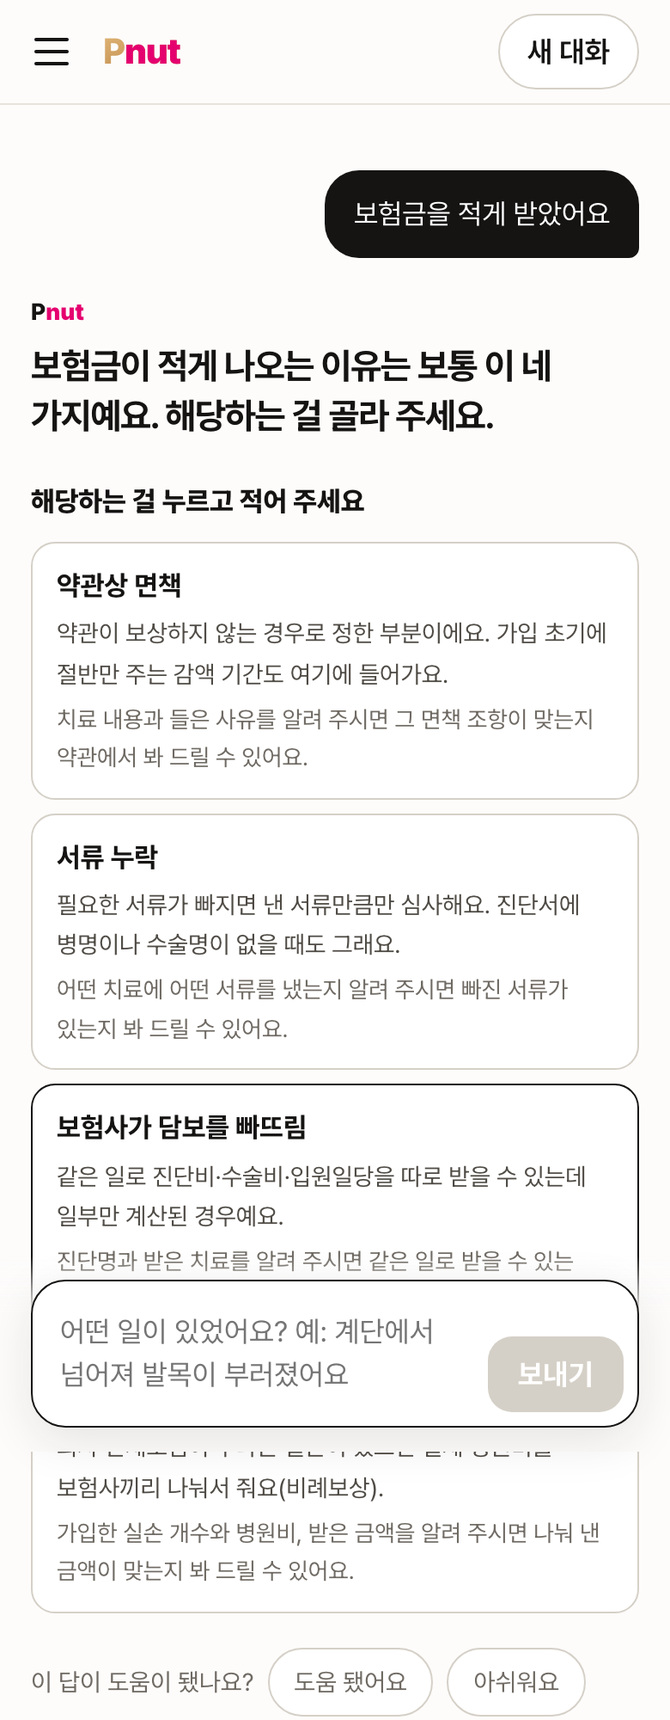
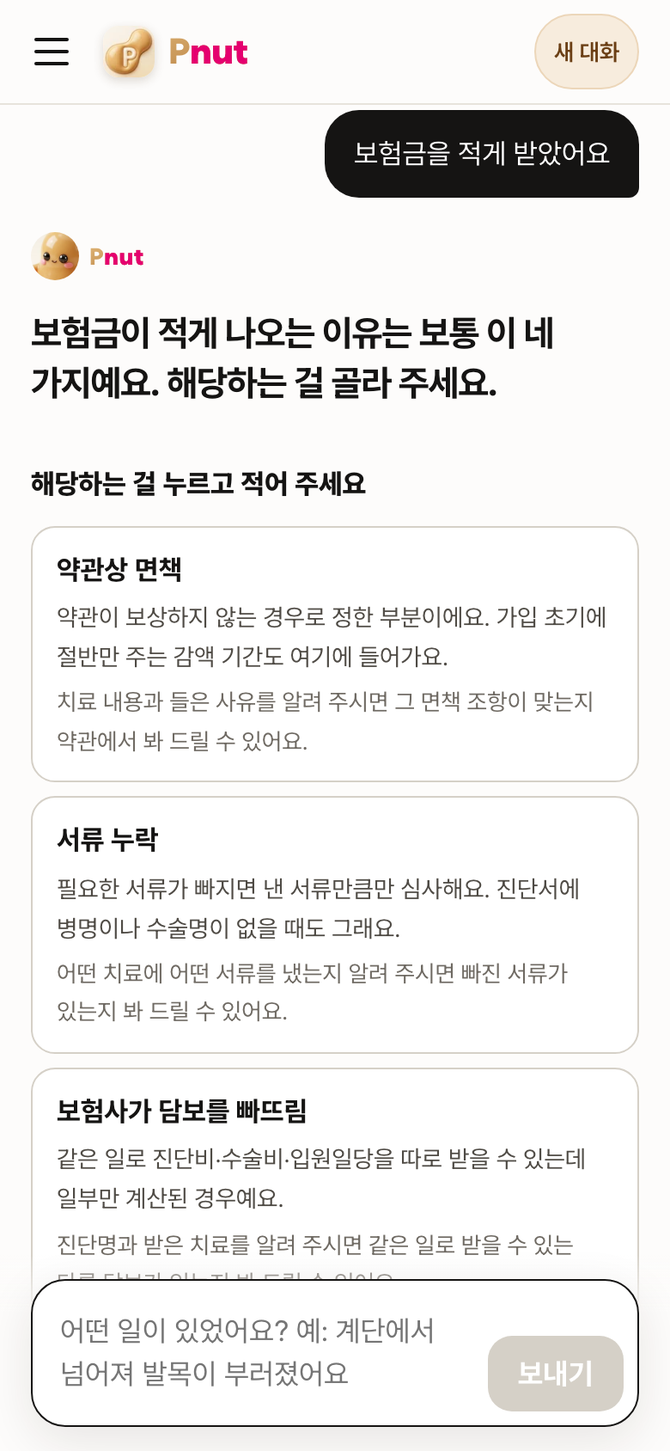
docs: 처음 보는 사람이 읽기 쉽게 README를 다시 쓰고, 모델 수립 계획과 현재 화면(foundshu-00119) 반영
- README: 맨 위 '한눈에' 표(문제·만든 것·핵심 판단·확인한 결과·역할), 동작 순서, 설계 판단, 조건이 붙은 결과, 역할.
- docs/model-plan.md: 질문 이해·재정렬 모델 수립 계획(사람 정답 → 기준선 → 재정렬·질문 읽기 → 서빙 결정)과 통과 기준.
- 화면 5장을 공개 시연판 foundshu-00119에서 다시 찍음(골절 답·떼 올 서류·크라운 답·되묻기·소개), 해시 기록 갱신.

diff --git a/README.md b/README.md
@@ -2,143 +2,121 @@
 
 [![검증](https://github.com/wpalswpa/foundshu-rag-evidence/actions/workflows/verify.yml/badge.svg)](https://github.com/wpalswpa/foundshu-rag-evidence/actions/workflows/verify.yml)
 
-다친 일이나 아팠던 일을 평소 말로 적으면, 먼저 "이 일이면 진단비·실손의료비를 확인해 보세요"처럼 확인할 보험금의 큰 분류를 알려 준다. 분류마다 보험사가 공시한 약관 원문에서 찾은 담보를 진단비, 수술비, 입원일당, 실손 순으로 보이고, 약관의 기준 문장, 빠지는 경우, 준비할 서류를 함께 붙인다. 보험금이 나오는지 정하지는 않는다. 약관을 펴기 전에 "어느 담보의 어느 조항을 읽어야 하는가"까지 좁혀 주는 것이 목적이다. 2026-11-12에 이름을 찾았슈에서 피넛(로고 Pnut)으로 바꿨다.
+다쳤거나 아팠던 일을 평소 말로 적으면 세 가지를 알려 준다.
+- 확인해 볼 보험금 종류(진단비·수술비·입원일당·실손)
+- 약관에서 찾은 담보 이름과 기준 문장
+- 담보마다 떼 올 서류
 
-현재 상태는 다음과 같다.
+보험금이 나오는지는 판정하지 않는다. 약관을 펴기 전에 "어느 담보의 어느 조항을 읽어야 하는가"까지 좁혀 주는 것이 목적이다. 공개 시연판은 접근 코드로 제한해 Google Cloud Run에서 돌고, 질문 하나에 언어 모델을 한 번도 부르지 않는다.
 
-- 된 것: 접근 코드로 제한한 공개 시연판이 클라우드에서 돈다. 공개판은 약관 색인 검색만 쓰고, 질문마다 언어 모델을 부르지 않는다. 질문은 사용자가 동의한 경우에만 주민등록번호와 휴대폰 번호를 가린 뒤 1년 동안 보관해 검색 개선과 학습에 쓴다.
-- 안 된 것: 외부 AI가 원문을 읽고 답하는 읽기 방식은 구현했지만, 서비스 경로에서는 외부 AI에 기대지 않기로 해 공개판에서 껐다. 로컬 모델이나 직접 띄운 모델 서빙으로 옮기는 것이 다음 단계이고, 읽기 방식의 정확도는 아직 재지 않았다. 색인된 약관은 71개(보험사 7곳)로, 판매 중인 전체 약관에는 아직 멀다. 실제 사용자 검증과 보험사 연동은 없다.
-- 이 저장소: 서비스 코드는 비공개다. 여기에는 작동 원리, 현재 화면, 측정 기록, 이전 실험(계약 범위 검색)의 공개 재현 코드를 둔다.
+## 한눈에
+
+| | |
+|---|---|
+| 문제 | 보험금을 청구하려면 가입한 담보, 그 담보의 약관 조항, 필요한 서류를 알아야 한다. 약관은 상품마다 수백 쪽이고 같은 보장도 회사마다 이름이 다르다 |
+| 만든 것 | 보험사가 공시한 약관 71개를 특약 단위로 색인했다. 질문을 '질병·상해 → 보험금 종류 → 담보 → 원문 문장·서류' 순서로 답하는 웹 서비스다 |
+| 핵심 판단 | 지급 여부는 단정하지 않는다. 사례를 외우지 않고, 약관에서 담보와 문장을 뽑는 일반 규칙을 데이터 표로 둔다. 모델은 사람이 정한 정답에서 이길 때만 들인다 |
+| 확인한 결과 | 약관 원문으로 만든 지급 질문 32개 중 30개에서 해당 담보를 찾았고, '안 나와요'로 잘못 답한 것은 0개다. 평가에 쓰지 않은 일상 질문 80개에서 답의 담보 줄이 틀린 문항을 32개에서 1개로 줄였다(정답은 AI 판정이며 실무자 확인 전) |
+| 역할 | 개인 프로젝트다. 문제 범위, 답의 형식, 평가 기준과 채택을 정했고, 코드는 AI 코딩 도구로 작성·검토했다([아래](#역할)) |
 
 ## 화면
 
-![소개 화면. 큰 제목 '이것도 보험금 나와요?', 책 읽는 땅콩과 말풍선, 흐르는 예시 단추, 휴대폰 틀 안에 실제 답이 쌓이는 화면](docs/images/intro.png)
+![소개 화면. 큰 제목, 책 읽는 땅콩 캐릭터, 흐르는 예시 질문 단추, 휴대폰 틀 안의 실제 답 화면](docs/images/intro.png)
 
 <p>
-  <img src="docs/images/answer-burn.png" width="250" alt="화상 질문의 답. 진단비 묶음의 대표 화상진단비와 심재성 2도 이상이라는 약관 기준 줄, 같은 종류 담보 목록">
-  <img src="docs/images/answer-exclusion.png" width="250" alt="백내장 수술 질문의 답. 진단비·수술비·종별 수술비·실손 네 묶음과 백내장 제외 담보를 뺐다는 안내">
-  <img src="docs/images/clarify.png" width="250" alt="보험금을 적게 받았다는 질문의 답. 대표 사유 네 가지 선택지">
+  <img src="docs/images/answer-fracture.png" width="200" alt="다리 골절 질문의 답. 결론 한 줄과 확인해 볼 담보(골절진단비·실손의료비)가 체크된 채 나온 화면">
+  <img src="docs/images/answer-docs.png" width="200" alt="결과 보기를 누른 뒤 떼 올 서류 네 가지와 각 서류를 쓰는 담보, 교통사고면 지급결의서 안내">
+  <img src="docs/images/answer-crown.png" width="200" alt="크라운 질문의 답. 치과크라운치료 담보와 실손이 보통 안 나오는 이유, 1세대 실손이라면 다쳐서 받은 치과 치료는 나올 수 있다는 줄">
+  <img src="docs/images/clarify.png" width="200" alt="보험금을 적게 받았다는 질문의 답. 무슨 일인지 없어 대표 사유를 선택지로 묻는 화면">
 </p>
 
-| 질문 | 화면이 보여 주는 것 |
+| 질문 | 답이 보여 주는 것 |
 |---|---|
-| 뜨거운 물에 데여서 화상을 입었어요 | 첫 줄은 "이 일이면 진단비·실손의료비를 확인해 보세요"다. 진단비 칸의 대표가 화상진단비이고, '기준' 줄에 약관 정의(심재성 2도 이상의 화상)를 옮긴다. 다른 회사·다른 이름의 같은 종류 담보는 아래 목록으로 접어 두고, 수술비·입원일당은 '수술했다면', '입원했다면' 줄로 따로 둔다 |
-| 백내장 수술했어요 | 첫 줄은 "이 일이면 질병 수술비·실손의료비를 확인해 보세요"다. 질병 수술비 칸에 증권에서 찾아볼 담보 이름 예시와 수술비·종별 수술비(1~5종) 묶음을 넣고, 실손 칸 아래에서 실손 보험금 계산을 열 수 있다. 이름에 '백내장 제외'가 붙은 담보는 빼고, 왜 뺐는지 안내에 남긴다 |
-| 보험금을 적게 받았어요 | 경위가 없어 담보를 늘어놓지 않고, 대표 사유 네 가지를 고르게 한다 |
+| 다리 부러졌어요 | 첫 줄 "이 일이면 진단비·실손의료비를 확인해 보세요"와 함께 골절진단비·실손이 체크된 채 나온다. 깁스·부목·골절수술·철심 제거는 아래 '이런 경우라면'에 둔다. 청구할 담보를 고르고 결과 보기를 누르면 그 담보들의 서류를 겹치지 않게 모아 보인다 |
+| 크라운 | 치과크라운치료 담보와, 실손이 보통 보상하지 않는 이유(건강보험이 적용되지 않는 치과 보철)를 표준약관 쪽수와 함께 보인다. 표준화 전에 가입한 1세대 실손은 다쳐서 받은 치과 치료를 보상할 수 있다는 줄을 출처와 함께 붙인다 |
+| 보험금을 적게 받았어요 | 무슨 일인지 없어서 담보를 늘어놓지 않고 대표 사유를 선택지로 묻는다 |
 
-## 작동 원리
+화면을 찍은 조건과 판은 [화면 기록](docs/screenshots.md)에 있다.
 
-공개판이 쓰는 검색 방식이다. 질문 하나에 모델 호출은 0회다.
+## 어떻게 동작하나
 
 ```mermaid
 flowchart TD
-  Q["질문: 겪은 일을 평소 말로"] --> C{"경위 낱말이 있나"}
-  C -->|"없음"| K["대표 사유를 선택지로 되묻기<br>한 번만, 모델 호출 없음"]
-  C -->|"있음"| P["검색 계획<br>질환 사전(치질 → 치핵), 행위 낱말 넓히기"]
-  P --> S["약관 색인 검색<br>SQLite FTS5 3글자 색인, 특약 단위"]
-  S --> N["이름이 맞는 특약 보충<br>화상 → 화상진단비"]
-  N --> X["제외 대조<br>이름에서 뺀 병 → 자리를 주지 않고 안내<br>면책 문장에 걸림 → 같은 분류 뒤로"]
-  X --> K["큰 분류<br>질병·상해 → 진단비 · 수술비 · 입원일당 · 실손 등<br>해당 / 그랬다면 / 해당 안 됨"]
-  K --> G["분류 칸 안의 담보 묶음<br>묶음마다 대표 1장 + 같은 종류 목록"]
+  Q["질문: 겪은 일을 평소 말로"] --> C{"무슨 일인지 있나"}
+  C -->|"없음"| A["대표 사유를 선택지로 되묻기"]
+  C -->|"있음"| P["질문 읽기<br>질환 사전(치질 → 치핵), 질병·상해 판정"]
+  P --> S["약관 색인 검색<br>SQLite FTS5, 특약 단위 조각"]
+  S --> K["보험금 종류 정하기<br>진단비·수술비·입원일당·실손<br>해당 / 그랬다면 / 보통 안 나와요"]
+  K --> G["담보 줄 뽑기<br>사건 낱말로 지급사유·정의 조각을 넓혀 찾음"]
+  G --> D["원문 붙이기<br>정의·한도·면책 문장, 담보별 서류, 실손 가입 세대"]
 ```
 
-1. **경위 확인**: 질문에서 일반어(보험금, 청구, 입원, 수술 등)와 처리 문제 낱말(적게, 거절 등)을 빼고 남는 낱말이 없으면 검색하지 않는다. 대신 사유를 선택지로 묻는다. 바로 앞 답이 되묻기였으면 다시 묻지 않는다.
-2. **검색 계획**: 질환 사전으로 고객 말을 약관 말로 넓힌다(치질 → 치핵, 부러졌어요 → 골절, 교통사고 → 자동차사고). 부위와 암이 따로 나오면 부위별 암으로 읽고(갑상선… 암 → 갑상선암), 약관이 여러 질환을 묶어 부르는 이름(유사암)도 붙인다.
-3. **색인 검색**: 약관 PDF를 특약별 조각(지급, 면책, 한도, 정의 등 역할 표시)으로 나눠 SQLite FTS5 3글자 색인에 넣었다. 낱말 점수가 높은 특약을 찾되, 같은 회사의 같은 이름 담보(여러 상품에 같은 담보가 든 경우)는 한 자리만 쓴다.
-4. **이름 보충**: 질문 낱말이 특약 이름에 들어 있으면(화상 → 화상진단비) 점수와 관계없이 후보에 넣는다.
-5. **제외 대조**: 약관은 보장하는 병을 일일이 적지 않고 빼는 병만 이름에 적는다. 그래서 병 이름으로 검색하면 그 병을 뺀 특약이 먼저 걸린다. 이름의 '(…제외)' 괄호에 질문의 병이 있으면 순위를 매길 때부터 자리를 주지 않고 안내에 남긴다. 면책 문장에 질문의 병이 걸린 담보는 같은 분류의 다른 담보 뒤로 보낸다.
-6. **큰 분류**: 질문한 사람의 가입 상황을 모르므로 담보 이름을 맞히는 대신 확인할 보험금의 종류를 먼저 정한다. 사건을 질병과 상해로 나누고(온톨로지의 질환 구분, 없으면 원인 낱말), 진단비·수술비·입원일당·간병·그 밖의 치료비·실손마다 상태를 셋 중 하나로 정한다. '해당'은 질문에 근거가 있을 때, '그랬다면'은 질문에 없지만 그 병에서 흔할 때(수술했다면 → 수술비), '해당 안 됨'은 약관이 보상하지 않는다고 정한 경우다(임신·출산의 실손은 실손 표준약관 쪽수와 함께 보인다). 담보 이름은 '증권에서 이런 이름을 찾아보세요'로 예시만 보인다. 규칙은 데이터 표 한 곳에 둔다.
-7. **묶음 구성**: 담보를 진단비, 수술비, 종별 수술비(1~5종 등), 입원일당, 그 밖, 실손 묶음으로 보인다. 묶음마다 대표 담보 한 장(지급 조항의 정의 문장을 '기준' 줄로)과 같은 종류 담보 목록을 두고, 목록을 누르면 그 자리에서 약관 문장이 펼쳐진다. 사건이 질병이면 상해 담보를 뒤로 보낸다(반대도 같다). 수술이면 수술분류표에서 몇 종인지 읽는다. 치료를 받았으면 실손 묶음을 넣는다.
+1. **질문 읽기.** 일상어를 약관 말로 바꾸고(부러졌어요 → 골절) 질병인지 상해인지 정한다. 무슨 일인지 없는 질문("보험금을 적게 받았어요")은 검색하지 않고 사유를 묻는다.
+2. **보험금 종류.** 가입 상황을 모르는 질문이라 담보 이름을 맞히는 대신 확인할 보험금 종류를 먼저 정한다. 질문에 근거가 있으면 '해당', 그 병에서 흔하면 '그랬다면'(수술했다면 → 수술비), 약관이 보상하지 않으면 '보통 안 나와요'와 표준약관 쪽수를 보인다.
+3. **담보 줄.** 사건 낱말(골절)이 든 지급사유·정의 조각을 모든 약관에서 찾아 담보 이름별로 묶는다. 많은 상품에 있는 담보가 흔한 담보다. 질문과 부위가 다른 담보(갈비뼈 질문의 깁스·부목)는 약관의 대상 분류표로 거른다.
+4. **원문 붙이기.** 담보마다 약관의 정의 문장, 한도·예외 문장, 서류 문장을 그대로 옮긴다. 약관에 없는 실무 지식(교통사고면 지급결의서, 1세대 실손의 예외)은 '실무 경험'으로 출처를 따로 단다.
 
-**읽기 방식**은 구현했지만 공개판에서는 꺼 두었다. 위 검색에 더해 다음을 거친다.
-
-1. 경위를 약관에서 쓰는 담보 이름과 의료 용어로 바꾼다.
-2. 특약 목록 6,087개에서 읽을 특약을 고른다.
-3. 고른 특약의 원문 조각과, 함께 봐야 하는 조항(정의, 면책, 감액, 분류표)을 모은다.
-4. 해석이 갈리는 쟁점이면 분쟁 사례 카드에서 같은 쟁점을 찾는다. 없으면 법원 판례를 검색한다. 사례의 결론은 옮기지 않고, 결론이 갈린 조건만 쓴다.
-5. 모델이 원문을 읽고 정해진 형식(JSON)으로 답한다.
-6. 답의 인용문을 원문 조각과 대조한다. 글자와 숫자만 남겨 비교하고, 인용의 85% 이상이 원문에 이어서 있어야 통과한다. 통과하지 못한 인용은 버린다.
+판단 낱말(일반어, 질환 끝말, 면책 규칙, 부위 사전, 서류 규칙)은 데이터 표에 두고 코드는 표를 적용만 한다. 질문 문장별 분기는 두지 않는다.
 
 ## 설계 판단
 
-| 문제 | 선택 | 버린 대안과 이유 |
+| 문제 | 선택 | 버린 대안과 근거 |
 |---|---|---|
-| 질문마다 비용이 든다 | 공개판은 색인 검색만 하고 모델을 부르지 않는다 | 질문마다 모델 호출은 비용과 응답 시간이 질문 수에 비례한다. 벡터 데이터베이스는 운영비가 들고, 이전 실험에서 모델 교체보다 검색 범위 제한의 효과가 컸다 |
-| 검색만 한 답이 '안 나와요'를 잘못 단정했다 | 검색만 방식은 모든 담보를 '확인 필요'로 두고, 면책 문장은 확인할 점으로만 보인다 | 면책 문장에 질문 낱말이 있으면 제외로 판정하던 방식은 지급 질문 32개 중 10개를 '안 나와요'로 표시했다. 고객이 청구를 포기하게 만드는 오답이라 과장보다 위험하다 |
-| 병 이름 검색이 그 병을 뺀 특약을 먼저 찾는다 | 특약 이름의 '(…제외)' 괄호를 읽는 일반 규칙 | 병마다 예외 목록을 두면 질병 수만큼 목록이 늘어난다 |
-| 경위 없는 질문에 담보를 늘어놓았다 | 대표 사유 네 가지(약관상 면책, 서류 누락, 보험사의 담보 누락, 실손 비례보상)를 선택지로 한 번만 묻는다 | "무슨 일이 있었나요" 같은 열린 질문만 던지면 무엇을 적어야 할지 알기 어렵다 |
-| 이름이 맞는 담보가 점수에서 밀렸다(화상 질문에서 화상수술비, 화상처치비가 앞서 화상진단비가 빠짐) | 질문 낱말이 이름에 든 특약을 후보에 넣고, 정의 문장을 '기준' 줄로 보인다 | 낱말 점수만으로 정하면 같은 낱말이 본문에 많이 나오는 특약이 앞선다 |
-| 분쟁 사례 대부분이 부지급 결론이다 | 쟁점으로 대조하고, 사실관계가 다르면 결론 대신 갈리는 조건만 쓴다 | 사례 결론을 그대로 옮기면 답이 '안 나와요' 쪽으로 기운다 |
-| 약관을 14개에서 71개로 늘리자 같은 담보 카드가 겹치고 답이 길어졌다(화상 질문에 화상진단비 5장) | 같은 회사·같은 이름 담보는 검색 자리 하나, 같은 종류 담보는 한 묶음(대표 1장 + 목록) | 담보마다 카드 한 장이면 약관이 늘수록 답이 길어진다. 같은 종류 담보는 지급 조건의 짜임과 서류가 비슷하다 |
-| "갑상선에 혹… 암이래요"처럼 떨어져 쓰면 유사암 담보를 못 찾았다 | 사건 읽기가 부위로 묶은 질환과 약관의 묶음 이름(유사암)을 검색 계획에 넣는다 | 낱말 점수만으로는 이름이 다른 유사암진단비가 20위 밖으로 밀렸다 |
-| 판단 목록이 코드에 흩어져 있었다 | 담보 순서, 일반어, 제외 표시, 되묻기 선택지를 데이터 파일로 분리하고 코드는 표만 적용한다 | 목록이 코드 안에 있으면 바꿀 때마다 코드를 고쳐야 한다 |
-| 질문 낱말 하나가 엉뚱한 특약을 첫 카드로 끌어왔다("어머니가 뇌경색으로 쓰러지셔서 2주 입원" → '2주' 낱말로 자동차사고상해진단(2주 이상)) | 숫자와 단위 낱말은 검색어에서 빼고, 답은 사건 → 질병/상해 → 큰 분류를 먼저 정한 뒤 그 분류 안에 담보를 보인다 | 가입 상황을 모르는 질문에서 담보 이름을 정확히 맞히는 것은 목표가 될 수 없다. 큰 분류는 수가 적어 규칙 표로 정하고 빠짐·엉뚱함을 잴 수 있다 |
-| 약관에 병 이름이 든 담보가 있으면 그 분류를 바로 '해당'으로 올렸다(디스크 진단비, 독감 항바이러스제 치료비 등 11개) | 진단비는 진단비 담보가 흔한 병만 '해당', 나머지는 '그 병의 진단비가 있는 보험이라면'으로 둔다. 치료비는 사용자가 말한 치료 낱말만 '해당'으로 본다 | 일부 상품에만 있는 담보까지 '해당'으로 올리면 엉뚱한 분류가 된다 |
-| 약관 PDF의 줄바꿈이 낱말 가운데 남아 "보험가입금액을 화 상진단비로"처럼 보였다 | 약관 전체에서 그 낱말이 줄 가운데 나온 횟수로 이을지 띄울지 정하고, 색인을 만들 때 한 번 잇는다 | 화면에서 줄바꿈을 빈칸으로 바꾸면 낱말이 쪼개지고, 모두 붙이면 띄어 써야 할 곳까지 붙는다. 끊긴 곳 680,481곳 중 372,912곳을 이었고, 무작위 100곳 표본에서 잘못 이은 곳은 1~2곳이었다 |
-| 색인을 고쳐 쓴 뒤 크기가 399MB에서 566MB로 늘어 배포판이 메모리 1GiB를 넘겼다(질문마다 503, 약 2~3분) | 바로 이전 리비전으로 되돌리고, FTS optimize와 VACUUM으로 390MB로 줄였다. 배포는 새 리비전을 트래픽 없이 올려 막힘·입장·질문 2개 시험을 통과할 때만 트래픽을 넘긴다 | 시험 없이 바로 트래픽을 넘기면 로컬 시험이 잡지 못한 클라우드 메모리 문제가 사용자에게 그대로 간다. 고장 난 리비전으로 이 시험을 돌려 503을 잡는 것을 확인했다 |
-| 학습용 질문 기록이 클라우드에서 남지 않았다 | 동의한 질문만 가려서, 질문 하나를 파일 하나로 저장소 버킷에 답을 보내기 전에 올린다. 버킷에는 365일 삭제 규칙을 건다 | 컨테이너 안 SQLite 파일은 요청이 없어 인스턴스가 0대로 줄면 사라졌다. SQLite 파일을 버킷에 붙여 쓰면 잠금 문제가 생긴다. 답을 보낸 뒤 올리면 Cloud Run이 CPU를 거의 멈춰 기록이 늦거나 빠질 수 있다 |
+| 검색만으로 '안 나와요'를 단정했다 | 면책은 '확인할 점'으로만 보이고, 표준약관이 분명히 빼는 경우만 '보통 안 나와요'로 둔다 | 면책 문장에 질문 낱말이 있으면 제외로 판정하던 방식은 지급 질문 32개 중 10개를 '안 나와요'로 표시했다. 청구를 포기하게 만드는 오답이라 과장보다 위험하다 |
+| 질문마다 비용과 응답 시간이 든다 | 공개판은 색인 검색과 규칙만 쓰고 모델을 부르지 않는다 | 질문마다 모델을 부르면 비용이 질문 수에 비례하고, 답의 근거를 원문과 대조하기 어렵다 |
+| 담보 이름을 맞히려다 엉뚱한 담보가 첫 줄에 왔다 | 질병·상해 → 보험금 종류를 먼저 정하고 그 안에 담보를 보인다 | 가입 상황을 모르는 질문에서 담보 이름을 맞히는 것은 목표가 될 수 없다. 종류는 수가 적어 규칙으로 정하고 빠짐·엉뚱함을 잴 수 있다 |
+| 골절 질문에 깁스·부목 담보를 놓쳤다 | 예시 사례를 외우지 않고, 사건 낱말로 지급사유·정의 조각을 넓혀 찾는 일반 규칙 | 처음에는 골절 사례 목록을 만들었지만 예시 밖 사건에서 다시 틀려 버렸다 |
+| 규칙을 고칠 때마다 같은 종류의 틀림이 다른 낱말로 나왔다('질환', '치료', '성대'가 든 담보) | 평가에 쓰지 않은 확인 질문 80개로 다섯 유형(상관없는 담보, 어색한 문장, 부위, 서류, 이어 묻기)을 세고, 유형마다 일반 규칙으로 고친 뒤 같은 80개로 다시 잰다 | 눈에 띈 질문만 고치면 고친 문항 수만 늘고 같은 유형이 남는다 |
+| 실손은 가입 시기마다 보상이 다르다 | 실손 규칙에 가입 세대 문장을 두고, 표준약관 원문과 실무 경험을 출처로 나눠 보인다 | 표준약관 하나로만 말하면 1세대 실손 가입자에게 틀린 답이 된다 |
+| 배포한 판이 클라우드 메모리 1GiB를 넘겨 질문마다 오류가 났다 | 새 판을 트래픽 없이 올려 막힘·입장·질문 시험을 통과할 때만 트래픽을 넘긴다 | 로컬 시험은 클라우드 메모리 문제를 잡지 못했다. 고장 난 판으로 이 시험이 오류를 잡는 것을 확인했다 |
+| 재정렬 모델이 AI가 만든 시험에서 크게 좋아졌다 | 사람이 고정한 평가에서 나아지지 않아 채택하지 않았다 | AI가 만든 질문·정답 208개에서는 상위 3 적중 74.0% → 97.1%였지만, 사람이 고정한 20건에서는 18 → 17이었다 |
 
-## 측정 결과
+## 확인한 결과
 
-약관 특약 원문을 보고 모델이 만든 질문 62개로 검색만 방식을 쟀다(2026-11-12, 약관 71개, 출처 특약이 모두 다르다). 질문과 정답 관계는 사람이 판정한 것이 아니다.
+| 무엇을 | 조건 | 결과 |
+|---|---|---|
+| 지급 질문에서 해당 담보 찾기 | 약관 특약 원문을 보고 AI가 만든 질문 62개(출처 특약이 모두 다름), 2026-11-12 | 지급 질문 32개 중 찾음 30, '안 나와요' 오답 0. 비슷하지만 해당 안 되는 질문 15개에서 '받을 수 있어요' 과장 0 |
+| 같은 질문의 변화 | 위와 같은 62개 | 찾음 10 → 30, '안 나와요' 오답 10 → 0(첫 측정은 약관 14개) |
+| 답의 담보 줄 | 평가에 쓰지 않은 일상 질문 80개, 다섯 유형으로 판정 | 하나라도 틀린 문항 32 → 1. 정답은 AI가 판정했고 실무자 확인 전이다 |
+| 보험금 종류와 질병·상해 판정 | 규칙을 다듬는 데 쓴 개발 29문항, 손대지 않은 시험 30문항 | 개발: 빠진 종류 0/46, 엉뚱한 종류 0. 시험: 빠진 종류 1/56, 엉뚱한 종류 0, 질병·상해 틀림 3 |
+| 공개판 보안 | 막힘·소개·대화·결과 보기·실손 계산을 실제 브라우저로 누름 | 콘텐츠 보안 정책(CSP) 위반 0, 스크립트 오류 0 |
 
-| 질문 종류 | 수 | 결과 |
-|---|---:|---|
-| 출처 담보가 지급되는 질문 | 32 | 출처 담보 또는 같은 이름 담보를 찾음 23, '안 나와요'로 잘못 표시 0, 못 찾음 9 |
-| 출처 담보의 면책에 걸리는 질문 | 15 | 맞힘 0. 검색만 방식은 '안 나와요'를 단정하지 않으므로 이 종류는 맞힐 수 없다 |
-| 비슷하지만 해당하지 않는 질문 | 15 | '받을 수 있어요' 과장 0 |
+못 찾은 지급 질문 2개는 담보가 아니라 계약 조건(특별조건부 인수, 이륜자동차 부담보)을 묻는 질문이다. 계약 조건은 담보 카드가 아니라 조건 문장으로 답해야 해서 따로 다룬다.
 
-- 같은 질문으로 잰 변화: 첫 측정(약관 14개) 찾음 10 · 잘못 표시 10 · 못 찾음 12 → '안 나와요' 단정을 없앤 뒤 20 · 0 · 12 → 약관 71개와 묶음 질환·실손 보강 뒤 23 · 0 · 9.
-- 못 찾은 9개에는 고객 말과 약관 말이 먼 질문("온몸 사진 찍는 검사" → 양전자단층촬영, "간질" → 뇌전증, "피를 못 만드는 병" → 재생불량성빈혈)과, 담보가 아니라 계약 조건을 묻는 질문(특별조건부, 이륜자동차 부담보)이 섞여 있다.
-- 큰 분류(2026-11-12): 질문 20개(필수 분류 칸 39개)의 정답을 구현 전에 약관 구조로 적어 두고 쟀다. 첫 측정에서 엉뚱한 분류 11개가 나와 규칙을 고친 뒤 빠진 분류 0/39, 엉뚱한 분류 0, 나오면 안 되는 분류 0, 질병·상해 판단 틀림 0이다. 정답은 실무자가 확인하기 전의 초안이고, 이 세트로 규칙을 다듬었으므로 세트 밖 질문에서의 성능을 보여 주지는 않는다. 위 질문 62개 평가는 큰 분류를 넣은 뒤에도 같다(찾음 23 · 잘못 표시 0 · 못 찾음 9, 과장 0).
-- 공개판(클라우드, CPU 1개) 응답: 2026-11-12 리비전 foundshu-00041에서 질문 4개로 쟀다. 인스턴스가 켜져 있을 때 0.3~1.1초, 새로 뜬 뒤 첫 질문은 2.2초였다.
-- 읽기 방식은 금감원 분쟁 사례 181개로 평가 자료를 답을 보기 전에 고정했지만, 아직 돌리지 않았다.
-- 배포 전에 확인하는 행동: 이름에서 뺀 병의 특약이 카드에 없다(백내장, 대장 용종, 갑상선암, 치아). 관계없는 제외는 남는다(위암 질문의 '유사암 제외' 암진단비, 발목 골절 질문의 '치아파절 제외' 골절진단비). 같은 회사·같은 이름 담보는 한 장이다. 모든 담보가 정확히 한 묶음에 들어간다. 경위가 없으면 모델을 부르지 않는다.
+## 다음 단계: 질문 이해와 재정렬 모델
 
-## 데이터 범위와 한계
+규칙으로 고친 만큼은 줄었지만, 사전 밖 일상어와 낱말 조각이 겹치는 담보는 규칙만으로 끝이 나지 않는다. 그래서 질문 읽기와 후보 고르기에 모델을 들인다. 순서는 다음과 같다.
+1. 실무자가 확정한 정답 세트를 만든다.
+2. 지금 방식의 기준선을 잰다.
+3. 재정렬과 질문 읽기 모델을 그 정답으로 비교한다.
+4. 기준선을 넘은 것만 별도 서비스로 띄운다.
 
-- 약관 71개: 보험사 7곳의 상품 약관 68개(NH농협손해보험 38, KB손해보험 20, 현대해상 3, 우체국보험 3, 라이나생명 2, 삼성화재 1, 한화생명 1)와 금융감독원 표준약관 3개다. 특약은 6,087개다(2026-11-11 색인).
-- 분쟁 사례 카드 604건: 금감원 분쟁조정결정례 313, 분쟁조정사례 160, 법원 판례 91, 금감원 주요판례 20, 분쟁해결기준 19, 보도자료 1건에서 쟁점과 결과를 나눠 만들었다.
-- 약관 수집: 여러 회사 약관을 한곳에 모은 협회 공시실은 자동 수집을 막는다(생명보험협회 공시실은 robots.txt가 일반 수집기를 모두 금지, 손해보험협회 공시실은 자동 요청 차단). 그래서 회사 공시실을 하나씩 수집한다. 요청 전에 그 경로를 robots.txt로 확인하고, 회사마다 2초 넘게 간격을 두고, 공식 도메인만 받고, 같은 판은 다시 받지 않는다.
-  - 지금까지: NH농협손해보험과 KB손해보험의 판매 중 보장성 약관 57개를 판매 시작·종료일과 함께 받았다(요청 239건, robots 금지 경로 요청 0건).
-  - 주요 보험사 23곳의 robots.txt와 공시실 목록 방식을 조사했다. 나머지 회사는 목록을 별도 API나 암호화된 요청 값으로 불러 회사마다 따로 맞춰야 한다. KDB생명(robots.txt 전면 금지)과 흥국생명(robots.txt를 해석할 수 없음)은 수집하지 않는다.
-  - 아직 판매 중지 상품과 지난 판은 받지 않았다. 계약 시점의 약관을 고르려면 필요하다.
-- 계약 정보 없이 묻는 질문이라 다른 회사의 약관을 예시로 보여 준다. 화면에도 "내 계약과 같은 상품이 아니라 다른 보험사 약관 예시"라고 적는다.
-- 지급 여부 판정, 청구 대행, 보험사 연동은 하지 않는다.
+자세한 단계와 통과 기준은 [모델 수립 계획](docs/model-plan.md)에 있다.
 
-## 다음 단계
+## 역할
 
-계획이며 아직 구현하지 않았다.
+개인 프로젝트다.
 
-1. 실무자가 큰 분류 정답 세트를 확인한 판으로 다시 재고, 세트 밖 질문으로 평가를 넓힌다.
-2. 원문 읽기를 외부 AI 대신 로컬 모델이나 직접 띄운 모델 서빙으로 옮기고, 동의를 받아 모은 질문을 학습 자료로 쓴다.
-3. 나머지 보험사 약관과 판매 중지·지난 판을 수집한다.
+- **직접 정한 것.**
+  - 문제 범위(지급 판정은 하지 않고 확인할 담보와 조항까지)와 답의 형식(보험금 종류 먼저, 담보를 고르면 서류).
+  - 공개판에서 외부 AI를 쓰지 않는 결정.
+  - 평가 기준과 채택 여부.
+  - 실무 지식: 실손 기본 서류는 영수증과 세부내역서, 교통사고는 지급결의서, 1세대 실손의 예외.
+- **AI 코딩 도구에 맡긴 것.** 코드 작성, 약관 수집과 색인, 평가 스크립트, 판정 초안.
+- **검토한 방식.** 공개판을 직접 써 보며 틀린 답을 찾았다. 찾은 틀림을 사례로 외우지 않고 일반 규칙으로 고치게 했고, 같은 평가로 다시 재서 받아들였다.
 
-## 이전 실험: 계약 범위 검색
+## 이 저장소에서 확인할 수 있는 것
 
-처음에는 일반적인 RAG로 시작했다. 약관을 500자 조각(80자 겹침)으로 나누고, 한국어 임베딩 KURE-v1로 상위 10개를 찾아 생성 모델이 답하게 했다. 합성 사례 24건 중 근거가 필요한 18건에서 필요한 조항을 모두 찾은 것은 4건이었고, 24건 모두에 다른 계약이나 판본의 조항이 섞였다. 그래서 회사, 상품, 판본, 특약으로 검색 범위를 먼저 좁히는 방식을 만들었다.
+서비스 코드는 비공개다. 여기에는 작동 원리, 화면, 측정 기록, 그리고 처음 실험(계약 범위 검색)의 공개 재현 코드를 둔다.
 
-| 검색 방식 | 범위 제한 없음 | 계약 범위 제한 |
-|---|---:|---:|
-| 낱말 검색(BM25) | 3/18 | 18/18 |
-| 의미 검색(KURE-v1) | 4/18 | 17/18 |
-
-수치는 필요 조항을 모두 찾은 사례 수다. 두 회사 약관의 지정 15쪽(79조각)을 썼고, 근거가 필요한 사례는 한 상품의 세 특약에 몰려 있다. 검색 조항 회수 결과이며 답변 정확도나 실제 지급 결과가 아니다. 사례 144행(24건 × 6방법)의 합계는 [기록](evidence/retrieval-record.json)에서 다시 계산한다. 자세한 구성과 해석은 [검색 비교 기록](evidence/README.md)에 있다.
-
-이 저장소의 [retrieval.py](retrieval.py)는 그 검색 규칙을 표준 라이브러리만으로 다시 쓴 것이다.
-
-```mermaid
-flowchart LR
-  A["질문과 가입 계약"] --> B{"회사, 상품, 판본, 특약 확인"}
-  B -->|"확인되지 않음"| C["근거 없이 보류"]
-  B -->|"한 문서에 연결"| D["범위 안에서 BM25 검색"]
-  D --> E["원문 위치와 해시 확인"]
-  E --> F["정의, 제외 등 같은 특약 조항을 묶어 반환"]
-```
-
-## 직접 실행
-
-Python 3.10 이상, 표준 라이브러리만 쓴다. API 키와 모델 다운로드가 필요 없다.
+| 위치 | 내용 |
+|---|---|
+| [docs/model-plan.md](docs/model-plan.md) | 질문 이해·재정렬 모델 수립 계획과 통과 기준 |
+| [docs/screenshots.md](docs/screenshots.md) | 화면을 찍은 조건과 판 |
+| [retrieval.py](retrieval.py) | 계약 범위 확인, 인용 원문 검증, BM25 순위, 같은 특약 근거 묶음(표준 라이브러리만) |
+| [tests/](tests/) | 잘못된 범위, 불명확한 출처, 누락된 인용을 돌려주지 않는지 확인 |
+| [evidence/](evidence/) | 처음 실험의 사례별 기록, 합계 재계산 검사, 화면 해시 기록 |
+| [docs/design.md](docs/design.md), [docs/provenance.md](docs/provenance.md) | 공개 재현의 범위와 비공개 서비스 코드와의 대응 |
 
 ```bash
 git clone https://github.com/wpalswpa/foundshu-rag-evidence.git
@@ -148,28 +126,23 @@ python -m unittest discover -s tests -v
 python evidence/check_record.py
 ```
 
-`retrieval.py`는 가상 문서에서 같은 질문의 상위 결과를 비교한다.
+Python 3.10 이상, 표준 라이브러리만 쓴다. API 키와 모델 다운로드가 필요 없다.
 
-```text
-unscoped evidence_for_review ['other-rider-event']
-scoped evidence_for_review ['current-event']
-bundle evidence_for_review ['current-event', 'current-exclusion']
-```
+## 처음 실험: 계약 범위 검색
 
-범위가 없으면 이름이 비슷한 다른 특약을 먼저 찾는다. 범위를 제한하면 해당 특약을 찾고, 묶음에서는 순위 밖의 제외 조항도 함께 돌려준다. 설계 동작을 보이는 작은 예제이며 정확도 평가 자료가 아니다.
+처음에는 일반적인 RAG로 시작했다. 약관을 500자 조각으로 나누고 한국어 임베딩(KURE-v1)으로 상위 10개를 찾아 생성 모델이 답하게 했다. 합성 사례 24건 중 근거가 필요한 18건에서 필요한 조항을 모두 찾은 것은 4건이었고, 24건 모두에 다른 계약이나 판본의 조항이 섞였다. 그래서 회사, 상품, 판본, 특약으로 검색 범위를 먼저 좁혔다.
 
-## 저장소 구성
+| 검색 방식 | 범위 제한 없음 | 계약 범위 제한 |
+|---|---:|---:|
+| 낱말 검색(BM25) | 3/18 | 18/18 |
+| 의미 검색(KURE-v1) | 4/18 | 17/18 |
 
-| 위치 | 내용 |
-|---|---|
-| [retrieval.py](retrieval.py) | 계약 범위 확인, 인용 원문 검증, BM25 순위, 같은 특약 근거 묶음 |
-| [examples/corpus.json](examples/corpus.json) | 직접 쓴 가상 문서, 특약, 질문. 실제 약관이 아니다 |
-| [tests/](tests/) | 잘못된 범위, 불명확한 출처, 누락된 인용을 돌려주지 않는지 확인 |
-| [evidence/](evidence/) | 이전 실험의 사례별 기록, 합계 재계산 검사, 화면 해시 기록 |
-| [docs/design.md](docs/design.md) | 공개 재현의 범위와 검증 기준 |
-| [docs/provenance.md](docs/provenance.md) | 비공개 서비스 코드와 공개 재현의 대응, 빠진 기능 |
-| [docs/screenshots.md](docs/screenshots.md) | 화면을 찍은 조건 |
+필요 조항을 모두 찾은 사례 수다. 두 회사 약관의 지정 15쪽(79조각)으로 쟀고, 검색 조항 회수 결과이며 답변 정확도가 아니다. 사례별 기록과 합계 재계산은 [evidence/](evidence/README.md)에 있다.
 
-## 공개 범위
+## 데이터 범위와 공개 범위
 
-서비스 코드, 약관 PDF와 색인, 고객 자료, 계정과 키는 넣지 않았다. 화면은 공개 시연판과 같은 코드를 로컬에서 예시 질문으로 실행해 찍었고, 개인 정보는 없다. 화면 속 약관 문장은 보험사가 공시한 약관의 인용이다. 코드는 AI 코딩 도구와 함께 작성했고, 문제 정의와 평가 기준, 채택 판단은 설계 문서에 기록했다.
+- 약관 71개: 보험사 7곳의 상품 약관 68개(NH농협손해보험 38, KB손해보험 20, 현대해상 3, 우체국보험 3, 라이나생명 2, 삼성화재 1, 한화생명 1)와 금융감독원 실손 표준약관 3개.
+- 분쟁 사례 749건: 금감원 분쟁조정결정례·사례, 법원 판례, 주요판례, 분쟁해결기준, 보도자료.
+- 약관 수집은 회사 공시실에서 robots.txt를 확인한 경로만, 요청 간격을 두고 받는다. 여러 회사를 모은 협회 공시실은 자동 수집을 막아 쓰지 않는다.
+- 질문한 사람의 계약을 모르므로 화면의 담보는 다른 보험사 약관의 예시다. 화면에도 그렇게 적는다.
+- 이 저장소에는 서비스 코드, 약관 PDF와 색인, 고객 자료, 계정과 키를 넣지 않았다. 화면은 공개 시연판을 예시 질문으로 찍었고 개인 정보는 없다. 화면 속 약관 문장은 보험사 공시 약관의 인용이다.

diff --git a/docs/model-plan.md b/docs/model-plan.md
@@ -1,0 +1,51 @@
+# 질문 이해와 담보 재정렬 모델 수립 계획
+
+피넛의 공개판은 질문 하나에 모델을 한 번도 부르지 않는다. 사전과 낱말 규칙으로 질문을 읽고, 약관 색인에서 담보 후보를 고른다. 이 문서는 그중 두 단계(질문 읽기, 후보 고르기)에 모델을 들이는 계획이다. 지급 여부와 약관 문장은 지금처럼 원문 인용과 규칙이 맡고, 모델에게 맡기지 않는다.
+
+현재 상태: 계획 단계다. 첫 단계(사람이 확정한 정답 세트)는 아직 시작하지 않았다.
+
+## 규칙 방식이 막힌 곳
+
+규칙으로 고친 만큼은 줄었다. 평가에 쓰지 않은 확인 질문 80개에서, 답의 담보 줄이 틀린 문항이 32개에서 1개로 줄었다(2026-11-12, 정답은 AI가 판정했고 사람이 확인하기 전이다). 하지만 고칠 때마다 같은 종류의 틀림이 다른 낱말로 다시 나왔다.
+
+| 질문 | 잘못 읽은 낱말 | 결과 |
+|---|---|---|
+| 편도 떼어 냈어요 | 개념 이름 '편도 질환'의 '질환' | 뇌혈관·순환계 담보가 같이 나옴 |
+| 크라운 | 개념 이름 '치과 치료'의 '치료' | 암 치료비가 같이 나옴 |
+| 성대 결절로 수술했어요 | '궤양성대장염' 속의 '성대' | 대장 질환 담보를 거르지 못함 |
+| 신장 이식 | '정신장애' 속의 '신장' | 정신장애 진단비가 첫 카드 |
+| 다낭성 난소 증후군 | '증후군' | 다운증후군·VDT증후군 담보 |
+
+사전에 없는 말도 못 읽는다. 담보를 못 찾은 질문에는 "온몸 사진 찍는 검사"(양전자단층촬영), "피를 못 만드는 병"(재생불량성빈혈)이 있다.
+
+한편 약관에 문장이 없는 실무 지식은 모델로도 검색으로도 찾을 수 없다. 예를 들어 실손보험 표준화 전에 가입한 1세대 실손은 회사마다 약관이 달라, 다쳐서 받은 치과 치료나 정신과 질환의 보상 여부가 표준약관과 다르다. 이런 지식은 실무자가 확인한 문장을 출처와 함께 규칙 표에 넣는 길뿐이다.
+
+## 이전 시도에서 배운 것
+
+- **AI가 만든 정답으로 모델을 재면 부풀어 보인다.** 재정렬 모델(bge-reranker-v2-m3의 한국어 미세조정판, Apache-2.0)을 AI가 만든 질문과 표지 1,244개로 학습했다. 같은 출처의 시험 208문항에서는 상위 3 적중이 74.0%에서 97.1%로 올랐다. 하지만 사람이 고정한 검색 평가 20건에서는 18/20에서 17/20으로 오히려 줄어 채택하지 않았다.
+- **차이가 흔들림보다 작으면 채택하지 않는다.** 약관을 칸으로 구조화한 층을 더한 비교는 실행마다 흔들리는 폭(±4~5점)보다 차이가 작아 넣지 않았다.
+- **작은 생성 모델은 값을 지어낸다.** 같은 약관 원문을 로컬 4B 모델에 주면 원문에 없는 수술 종을 지어냈고, 14B 모델은 한 질문에 231초가 걸렸다.
+
+## 순서와 통과 기준
+
+앞 단계의 통과 기준을 넘어야 다음 단계로 간다.
+
+| 단계 | 하는 일 | 통과 기준 |
+|---|---|---|
+| 1. 사람 정답 | 질문마다 '사건 → 질병·상해 → 확인할 보험금 분류 → 꼭 나와야 할 담보와 조항 → 나오면 안 되는 담보'를 실무자가 확정한다. 매주 20문항을 시스템이 답하고 실무자는 틀린 줄만 표시한다. 표시는 사례로 외우지 않고 규칙 표의 일반 규칙이나 출처가 붙은 문장으로 바꾼다 | 개발 세트 100문항 이상과, 손대지 않는 봉인 시험 세트 50문항 이상 |
+| 2. 기준선 | 지금 규칙 방식을 1의 세트로 잰다 | 엉뚱한 대표 카드 수, 꼭 나와야 할 담보 찾음(상위 3), 분류 빠짐·엉뚱, 원인 틀림, 응답 시간이 한 명령으로 나온다 |
+| 3. 재정렬 | 색인 검색이 고른 후보 40개를 뜻으로 다시 매긴다. 학습하지 않은 기본 모델과 이전 학습판을 비교하고, 다시 학습한다면 1의 사람 표지만 쓴다 | 봉인 시험에서 엉뚱한 대표 카드가 기준선보다 줄고, 담보 찾음과 분류가 나빠지지 않는다. 차이가 반복 실행의 흔들림보다 크다 |
+| 4. 질문 읽기 | 질문을 정해진 칸(원인, 병·다친 곳, 부위, 행위, 병원 종류, 시점)으로 읽는다. 모델이 고르는 값은 질환 개념·질병분류 묶음처럼 정해진 목록 안에서만 받고, 목록 밖이면 지금 사전 방식으로 둔다 | 사전 밖 일상어에서 개념을 맞히는 비율이 오르고, 지어낸 값이 0이다. 노트북에서 질문당 1초 안팎 |
+| 5. 서빙 | 3·4에서 채택한 것만 띄운다. 공개판 웹 컨테이너(메모리 1GiB)에는 싣지 않고 별도 서비스로 둔다 | 응답 시간 p95 2초 이하, 1천 질문당 비용 기록, 모델이 꺼져도 규칙 방식으로 답한다 |
+| 6. 학습 고리 | 동의한 질문 기록 → 놓친 질문 검토 → 1의 판정 → 규칙 표 보강·재학습 → 봉인 시험 회귀 | 판마다 봉인 시험 숫자를 기록한다 |
+
+## 하지 않는 것
+
+- 서비스 경로에서 외부 AI를 부르거나 유료 호출을 하지 않는다.
+- 모델이 지급 여부를 판단하지 않는다.
+- AI가 만든 정답으로 채택을 정하지 않는다.
+- 평가 결과에 맞춰 정답을 고치지 않는다.
+
+## 왜 이 순서인가
+
+모델을 먼저 고르면 무엇이 나아졌는지 잴 기준이 없다. 이전 재정렬 실험이 그랬다. AI가 만든 시험에서는 크게 나아 보였지만 사람 기준에서는 나아지지 않았다. 그래서 사람이 확정한 정답과 기준선을 먼저 만들고, 모델은 그 기준을 넘을 때만 들인다. 서빙 비용과 자리는 효과를 잰 뒤에 정한다.

diff --git a/docs/screenshots.md b/docs/screenshots.md
@@ -1,12 +1,19 @@
 # 서비스 화면
 
-공개 시연판에 배포한 판(2026-11-12, 소개 화면은 foundshu-00050, 대화 화면은 foundshu-00047)과 같은 코드를 로컬에서 실행하고 예시 질문을 넣어 찍었다. 실제 고객 자료가 아니며, 이미지를 합성하거나 결과 문구를 바꾸지 않았다. 화면 아래의 입력 칸은 실제 화면처럼 답 위에 떠 있는 상태 그대로다. 질문 저장 동의 막대는 답을 가리지 않도록 '동의 안 함'을 눌러 닫은 뒤 찍었다. 화면별 SHA-256과 찍은 판은 [기록](../evidence/screenshots.json)에 있다.
+공개 시연판(2026-11-12, 판 foundshu-00119)에 예시 질문을 넣어 실제 브라우저로 찍었다. 실제 고객 자료가 아니며, 이미지를 합성하거나 결과 문구를 바꾸지 않았다. 화면별 SHA-256과 찍은 판은 [기록](../evidence/screenshots.json)에 있다.
 
-| 화면 | 넣은 질문 | 보여 주는 것 | 범위 |
+찍은 방법:
+- 답 화면은 휴대폰 크기(390×844)로, 보여 줄 칸까지 스크롤한 뒤 화면 그대로 찍었다.
+- 아래에 떠 있는 입력 칸과 '결과 보기' 단추는 실제 화면처럼 그대로 두었다.
+- 질문 저장 동의 막대는 답을 가리지 않도록 '동의 안 함'을 눌러 닫았다.
+- 소개 화면은 캐릭터가 움직이는 중간에 찍히지 않게 '움직임 줄이기'로 찍었다.
+
+| 화면 | 넣은 질문 | 보여 주는 것 | 크기 |
 |---|---|---|---|
-| [소개](images/intro.png) | 없음 | 왼쪽 위 삼선 메뉴, 첫 화면 제목, 책 읽는 땅콩과 말풍선, 예시 단추, 휴대폰 틀 안의 실제 답 화면. 눈 깜박임 중간에 찍히지 않게 '움직임 줄이기'로 멈춘 화면을 찍었다 | 데스크톱 1440px |
-| [화상 답](images/answer-burn.png) | 뜨거운 물에 데여서 화상을 입었어요 | 큰 분류 첫 줄, 진단비 칸의 대표 화상진단비, 약관 정의를 옮긴 '기준' 줄, 지급 조항, 출처 쪽수, 같은 종류 담보 목록 | 모바일 390px |
-| [묶음과 제외 대조](images/answer-exclusion.png) | 백내장 수술했어요 | 큰 분류 첫 줄, 질병 수술비 칸의 찾아볼 이름 예시와 수술비·종별 수술비 묶음, 실손 칸과 실손 계산 열기, '그랬다면' 줄, 이름에 '백내장 제외'가 붙은 담보를 뺐다는 안내, 수술 종 분류 | 모바일 390px |
-| [되묻기](images/clarify.png) | 보험금을 적게 받았어요 | 경위가 없어 대표 사유 네 가지를 선택지로 보임 | 모바일 390px |
+| [소개](images/intro.png) | 없음 | 첫 화면 제목, 책 읽는 땅콩 캐릭터, 흐르는 예시 질문 단추, 휴대폰 틀 안의 실제 답 화면 | 데스크톱 1440px |
+| [골절 답](images/answer-fracture.png) | 다리 부러졌어요 | 결론 한 줄, 질병·상해 판정, 확인해 볼 담보(골절진단비·실손의료비)가 체크된 채 나옴 | 모바일 390px |
+| [떼 올 서류](images/answer-docs.png) | 다리 부러졌어요 → 결과 보기 | 고른 담보의 서류 네 가지와 각 서류를 쓰는 담보, 약관에 없는 실무 지식의 출처 표시, 교통사고면 지급결의서 안내 | 모바일 390px |
+| [크라운 답](images/answer-crown.png) | 크라운 | 치과크라운치료 담보, 실손이 보통 보상하지 않는 이유와 표준약관 쪽수, 1세대 실손의 예외 줄 | 모바일 390px |
+| [되묻기](images/clarify.png) | 보험금을 적게 받았어요 | 무슨 일인지 없어 담보를 늘어놓지 않고 대표 사유를 선택지로 묻는 화면 | 모바일 390px |
 
-화면 속 약관 문장은 보험사가 공시한 약관의 인용이다. 담보 카드는 질문한 사람의 계약이 아니라 색인된 다른 보험사 약관의 예시이고, 모든 카드가 '확인 필요'인 것은 검색만 방식이 지급 여부를 단정하지 않기 때문이다. 지급 확정 결과로 읽으면 안 된다.
+화면 속 약관 문장은 보험사가 공시한 약관의 인용이다. 담보는 질문한 사람의 계약이 아니라 색인된 다른 보험사 약관의 예시이고, 지급 여부를 판정한 결과가 아니다.
